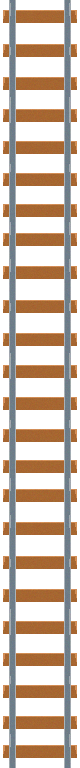
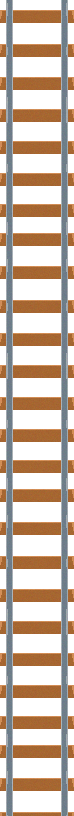
Changing tilemap to have space for stairs

diff --git a/src/main.js b/src/main.js
@@ -194,8 +194,8 @@ Pacman.prototype = {
 
 
 
-        leftRails = game.add.sprite(-30, 0, 'rails', 0);
-        rightRails = game.add.sprite(900, 0, 'rails', 0);
+        leftRails = game.add.sprite(-5, 0, 'rails', 0);
+        rightRails = game.add.sprite(848, 0, 'rails', 0);
 
         // dieButton = this.input.keyboard.addKey(Phaser.Keyboard.SPACEBAR);
         // dieButton.onDown.add(this.die, this);
